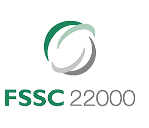
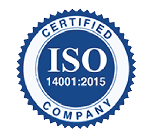
Updates
Logo size, Home page "About us image & text" - About us page text edited and contact us removed, certificates edited

diff --git a/public/css/app.css b/public/css/app.css
@@ -86,7 +86,7 @@ header {
     margin: 1rem;
     margin-left: 50px;
     margin-right: 50px;
-    padding: 20px;
+    padding: 30px;
     box-shadow: 0 2px 10px rgba(0, 0, 0, 0.04);
 }
 
@@ -107,7 +107,7 @@ header {
 }
 
 .logo {
-    height: 50px;
+    height: 60px;
     width: auto;
 }
 
@@ -1445,7 +1445,7 @@ body.loading {
 }
 
 .logo {
-    height: 50px;
+    height: 60px;
     width: auto;
 }
 

diff --git a/resources/views/about.blade.php b/resources/views/about.blade.php
@@ -11,7 +11,7 @@
     <!-- History Section Title -->
     <div class="section-title">
         <img src="{{ asset('images/section-decorator.png') }}" alt="" class="decorator left">
-        <h2>OUR HISTORY</h2>
+        <h2 style="font-size:24px; padding:2rem; " >Our Story – PHATRADE: A Legacy of Nature, Quality, and Innovation</h2>
         <img src="{{ asset('images/section-decorator.png') }}" alt="" class="decorator right">
     </div>
 
@@ -22,32 +22,32 @@
                 <div class="timeline-item" data-aos="fade-up" data-aos-delay="100">
                     <div class="timeline-content">
                         <h3>1975</h3>
-                        <p>PHTRADE was established, initially focusing on spices and herbs.</p>
+                        <p>a vision took root—a vision to bring the finest spices and herbs from Egypt to the world. That vision became PHATRADE, a company built on passion, expertise, and an unwavering commitment to quality.</p>
                     </div>
                 </div>
                 <div class="timeline-item" data-aos="fade-up" data-aos-delay="200">
                     <div class="timeline-content">
                         <h3>1977</h3>
-                        <p>Focused on the American market, developing a strong reputation.</p>
+                        <p>we had already made our mark in the American market, earning a reputation for excellence in natural ingredients.</p>
                     </div>
                 </div>
                 <div class="timeline-item" data-aos="fade-up" data-aos-delay="300">
                     <div class="timeline-content">
                         <h3>1987</h3>
-                        <p>Started Essential Oils production as a natural expansion.</p>
+                        <p>we ventured into Essential Oil production, a natural evolution given our deep understanding of raw materials. But our journey didn’t stop there. As demand for pure, aromatic extracts grew, we saw an opportunity to expand our expertise. </p>
                     </div>
                 </div>
                 <div class="timeline-item" data-aos="fade-up" data-aos-delay="400">
                     <div class="timeline-content">
-                        <h3>1989</h3>
-                        <p>First order in Essential Oils, marking the beginning of our growth in this field.</p>
+                        <h3>Just two years later, in 1989</h3>
+                        <p>we fulfilled our first major order—a milestone that set the stage for decades of leadership in the industry.</p>
                     </div>
                 </div>
                 <div class="timeline-item" data-aos="fade-up" data-aos-delay="500">
                     <div class="timeline-content">
                         <h3>Present</h3>
-                        <p>PHATRADE is now a long-established name in Natural Essential Oils, Concretes, Absolutes, and
-                            Vegetable Oils.</p>
+                        <p>Today, PHATRADE stands as a globally trusted name in Natural Essential Oils, Concretes, Absolutes, and Aroma Chemicals. With two state-of-the-art distillation and extraction facilities in Egypt (Obour City - Cairo & Sadat City), we blend cutting-edge technology with sustainable farming, growing select crops on our own farm to ensure purity from seed to bottle.
+                        Trusted by the Best, Driven by Excellence</p>
                     </div>
                 </div>
             </div>
@@ -56,8 +56,9 @@
 
     <!-- New Section: Contact Us -->
     <section class="contact-us">
-        <h2>Contact Us</h2>
-        <p>If you have any questions or inquiries, feel free to reach out to us!</p>
+        <h2>Our oils, concrete, and Absolute</h2>
+        <p style="font-size:16px; padding-left:4rem; padding-right:4rem; text-align:left; ">Are chosen by premium manufacturers across the USA and Europe, a testament to our uncompromising quality and traceability. Behind every batch is our dedicated Quality Control team—technicians and doctors who uphold rigorous standards, backed by a strict registration system that guarantees full transparency at every step.
+        A Future Rooted in Nature, Perfected by Science <br> <br> For nearly 50 years, we’ve bridged nature’s finest ingredients with the ever-changing needs of the global fragrance and flavor industries. At PHTRADE, we don’t just produce essential oils—we craft experiences, preserving the soul of nature in every drop.</p>
         <a href="{{ route('contact') }}" class="btn btn-primary">Get in Touch</a>
     </section>
 

diff --git a/resources/views/home.blade.php b/resources/views/home.blade.php
@@ -45,12 +45,8 @@
                 <img src="{{ asset('images/about/about-image.jpg') }}" alt="About Phatrade">
             </div>
             <div class="about-content">
-                <h2 class="subtitle">WE ARE GETTING BACK TO OUR ROOTS PHATRADE</h2>
-                <p>is located in Obour City (about 15 min. to the airport)
-                    In this facility we have our head office, factory, laboratory, packing and shipping department. We
-                    produce in this factory some of our products such as Chamomile Blue Oil, Cumin Oil, Parsley Oil and some
-                    other products. One of the main reasons for the success of our company is quality control, research and
-                    development.</p>
+                <h2 class="subtitle">We are honored to introduce Mr.Adolf Todros</h2>
+                <p>The esteemed CEO and founder of PHATRADE, a leading company specializing in Essential Oils, Concretes, and Absolutes. Born in 1945 in Qena Governorate of Upper Egypt, Mr.Adolf's journey is rooted in a deep understanding of the land. After graduating from the Faculty of Agriculture, he dedicated years to the agricultural field, cultivating invaluable expertise. It was this profound experience and vision that led him to establish PHATRADE, transforming his passion for nature's extracts into a thriving enterprise</p>
                 <a href="{{ route('about') }}" class="btn btn-primary">More About Us</a>
             </div>
         </div>
@@ -101,13 +97,10 @@
                 <div class="map-content">
                     <div class="map-text">
                         <h2
-                            style="font-weight: 700; color:rgb(255, 255, 255); letter-spacing: 1px; background-color:rgb(75, 159, 255); padding: 15px 20px; border-radius: 32px 0 32px 32px;">
-                            Our Quality Control Department</h2>
-                        <p style="font-size: 18px; line-height: 1.8;">is <strong>very active</strong>, <strong>very well
-                                equipped</strong> and run by <strong>good technicians</strong>.
-                            Also they have a <strong>very strict system</strong> for registration which allow us full
-                            traceability of any
-                            product and prevent any possible mistakes.</p>
+                            style="font-weight: 500; color:rgb(255, 255, 255); letter-spacing: .5px; background-color:rgb(75, 159, 255); padding: 15px 20px; border-radius: 32px 0 32px 32px; ">
+                            Quality Control & Assurance Departments</h2>
+                        <p style="font-size: 18px; line-height: 1.8;">Our Quality Control (QC) and Quality Assurance (QA) departments operate with the highest standards of precision and efficiency. Staffed by skilled technicians and equipped with state-of-the-art technology, these departments ensure rigorous compliance with quality protocols at every stage of production.
+<br> <br> A key strength of our system is the stringent documentation process, which guarantees full traceability for every product. This meticulous approach not only upholds product integrity but also minimizes the risk of errors, reinforcing our commitment to delivering consistent, high-quality results.                        </p>
                     </div>
                     <div class="map-image">
                         <img src="{{ asset('images/hand.png') }}" alt="Quality Control Department">
